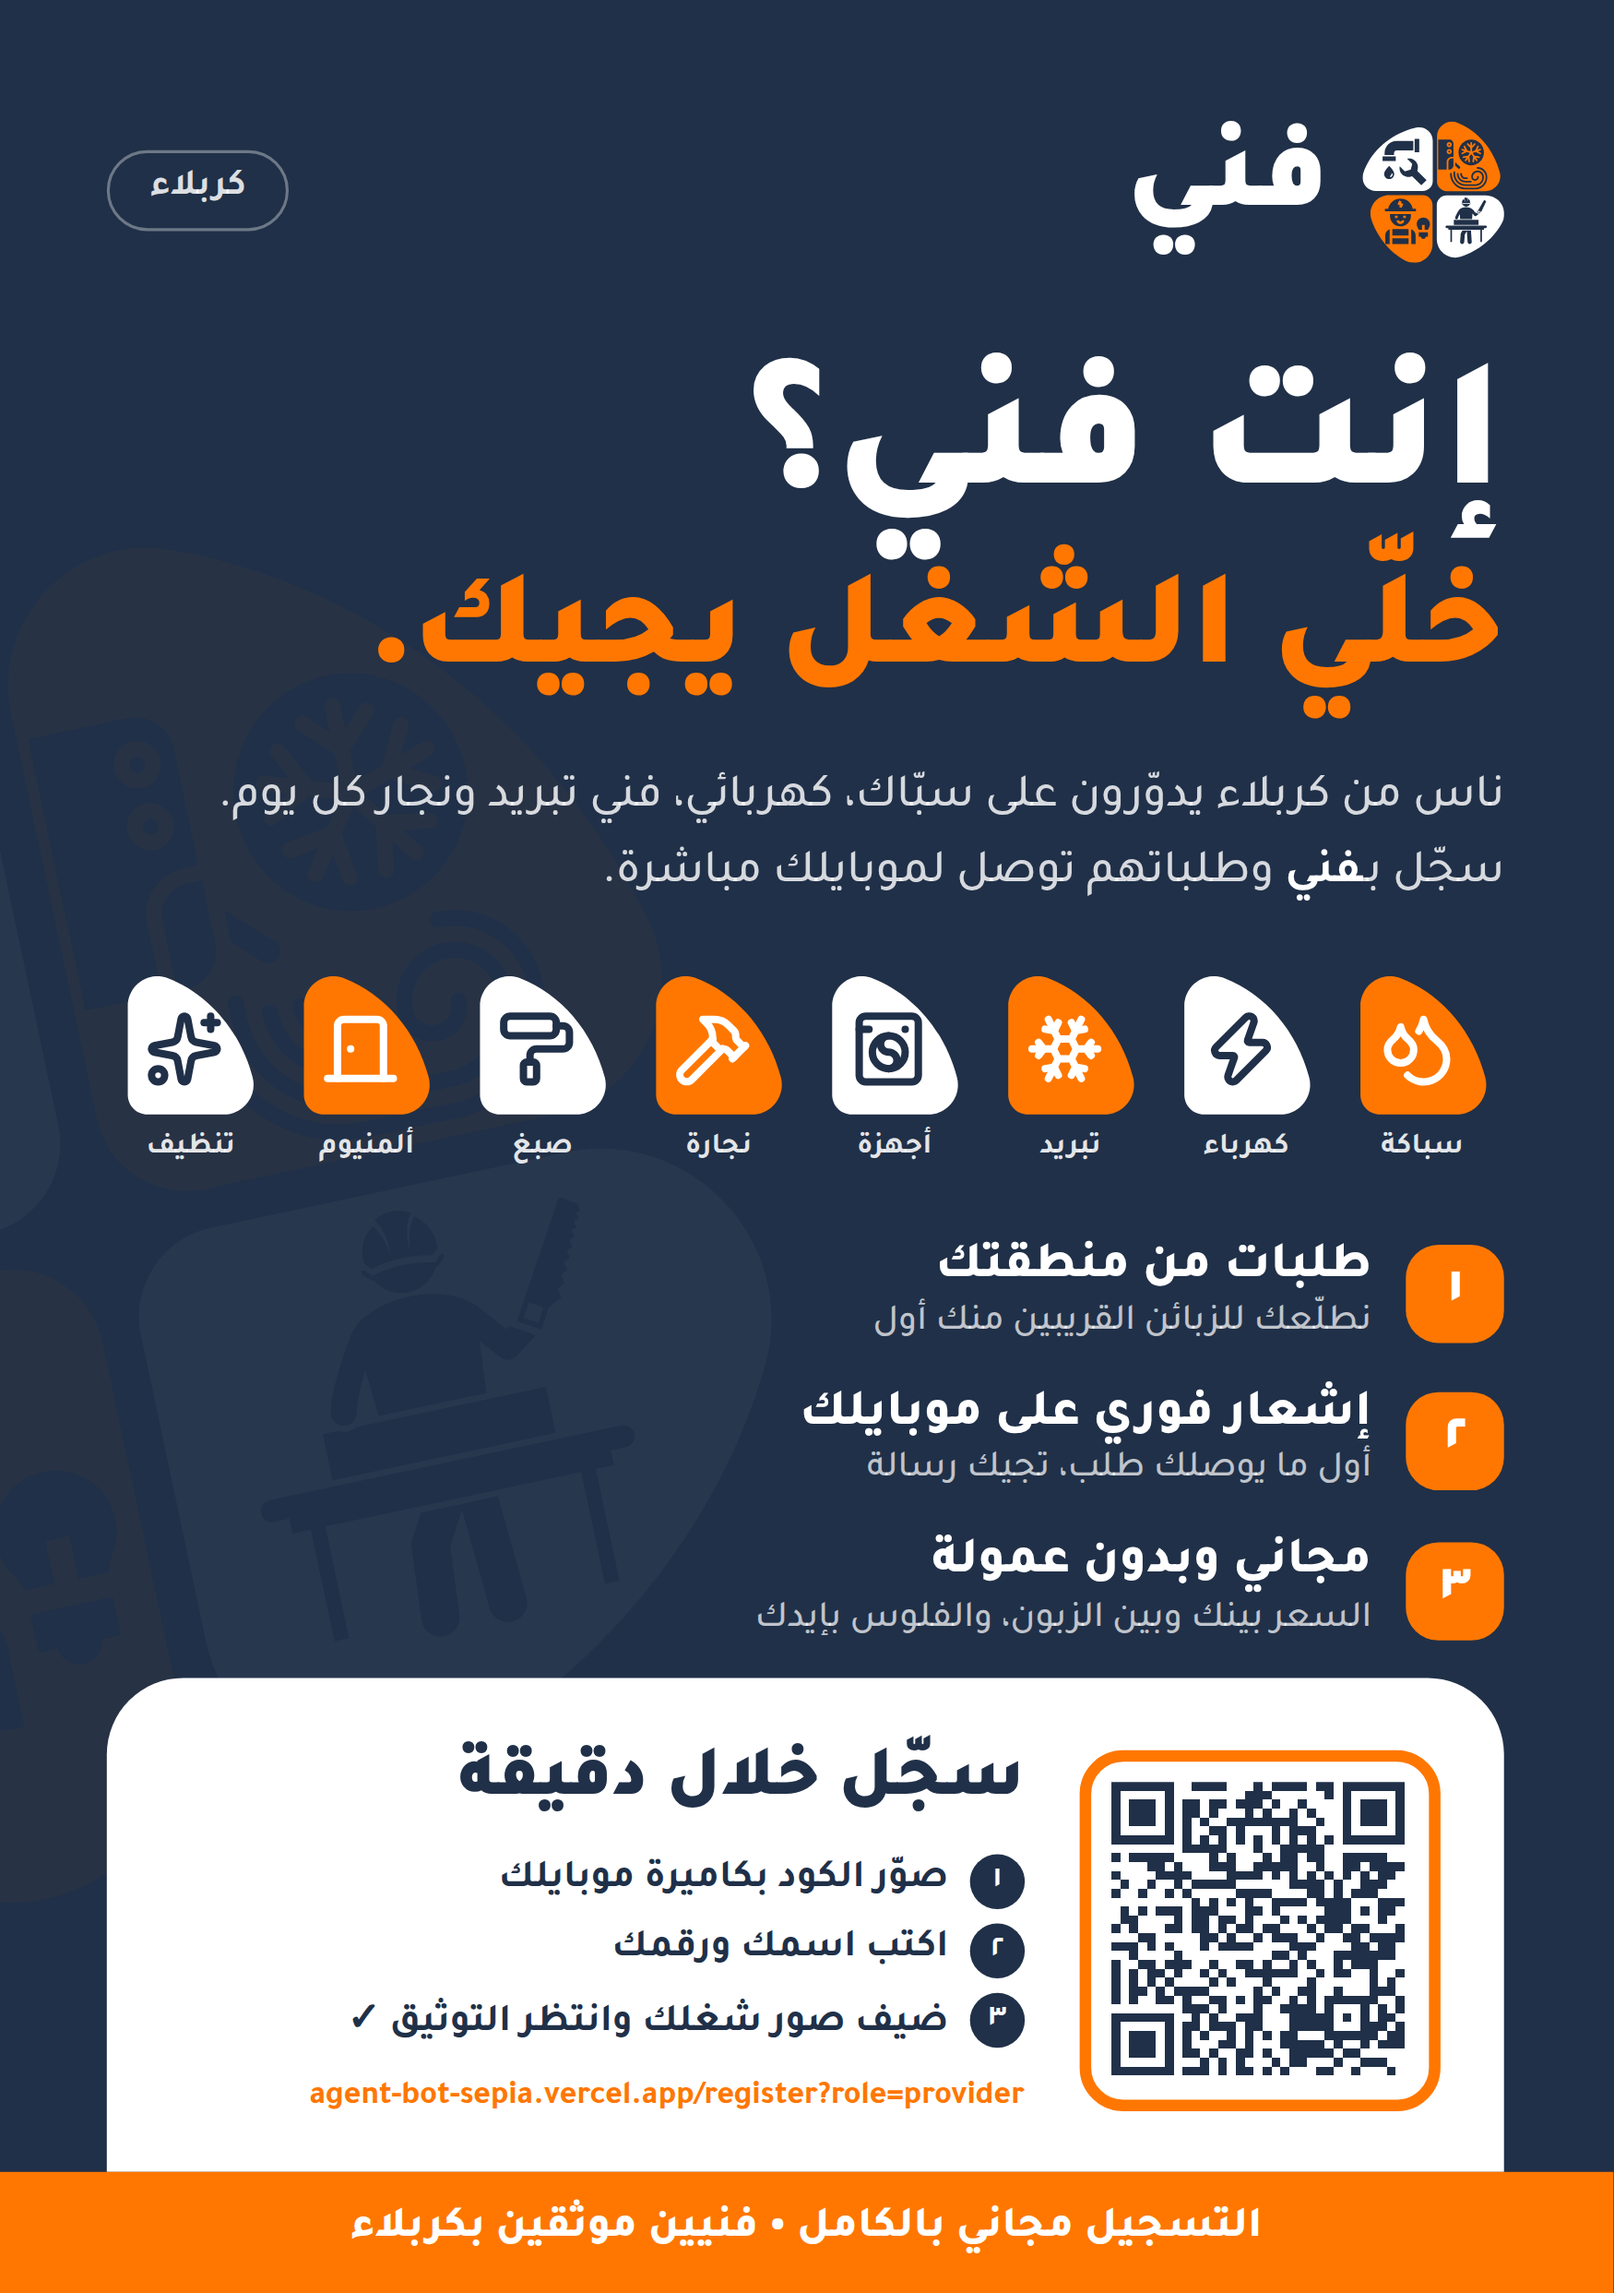
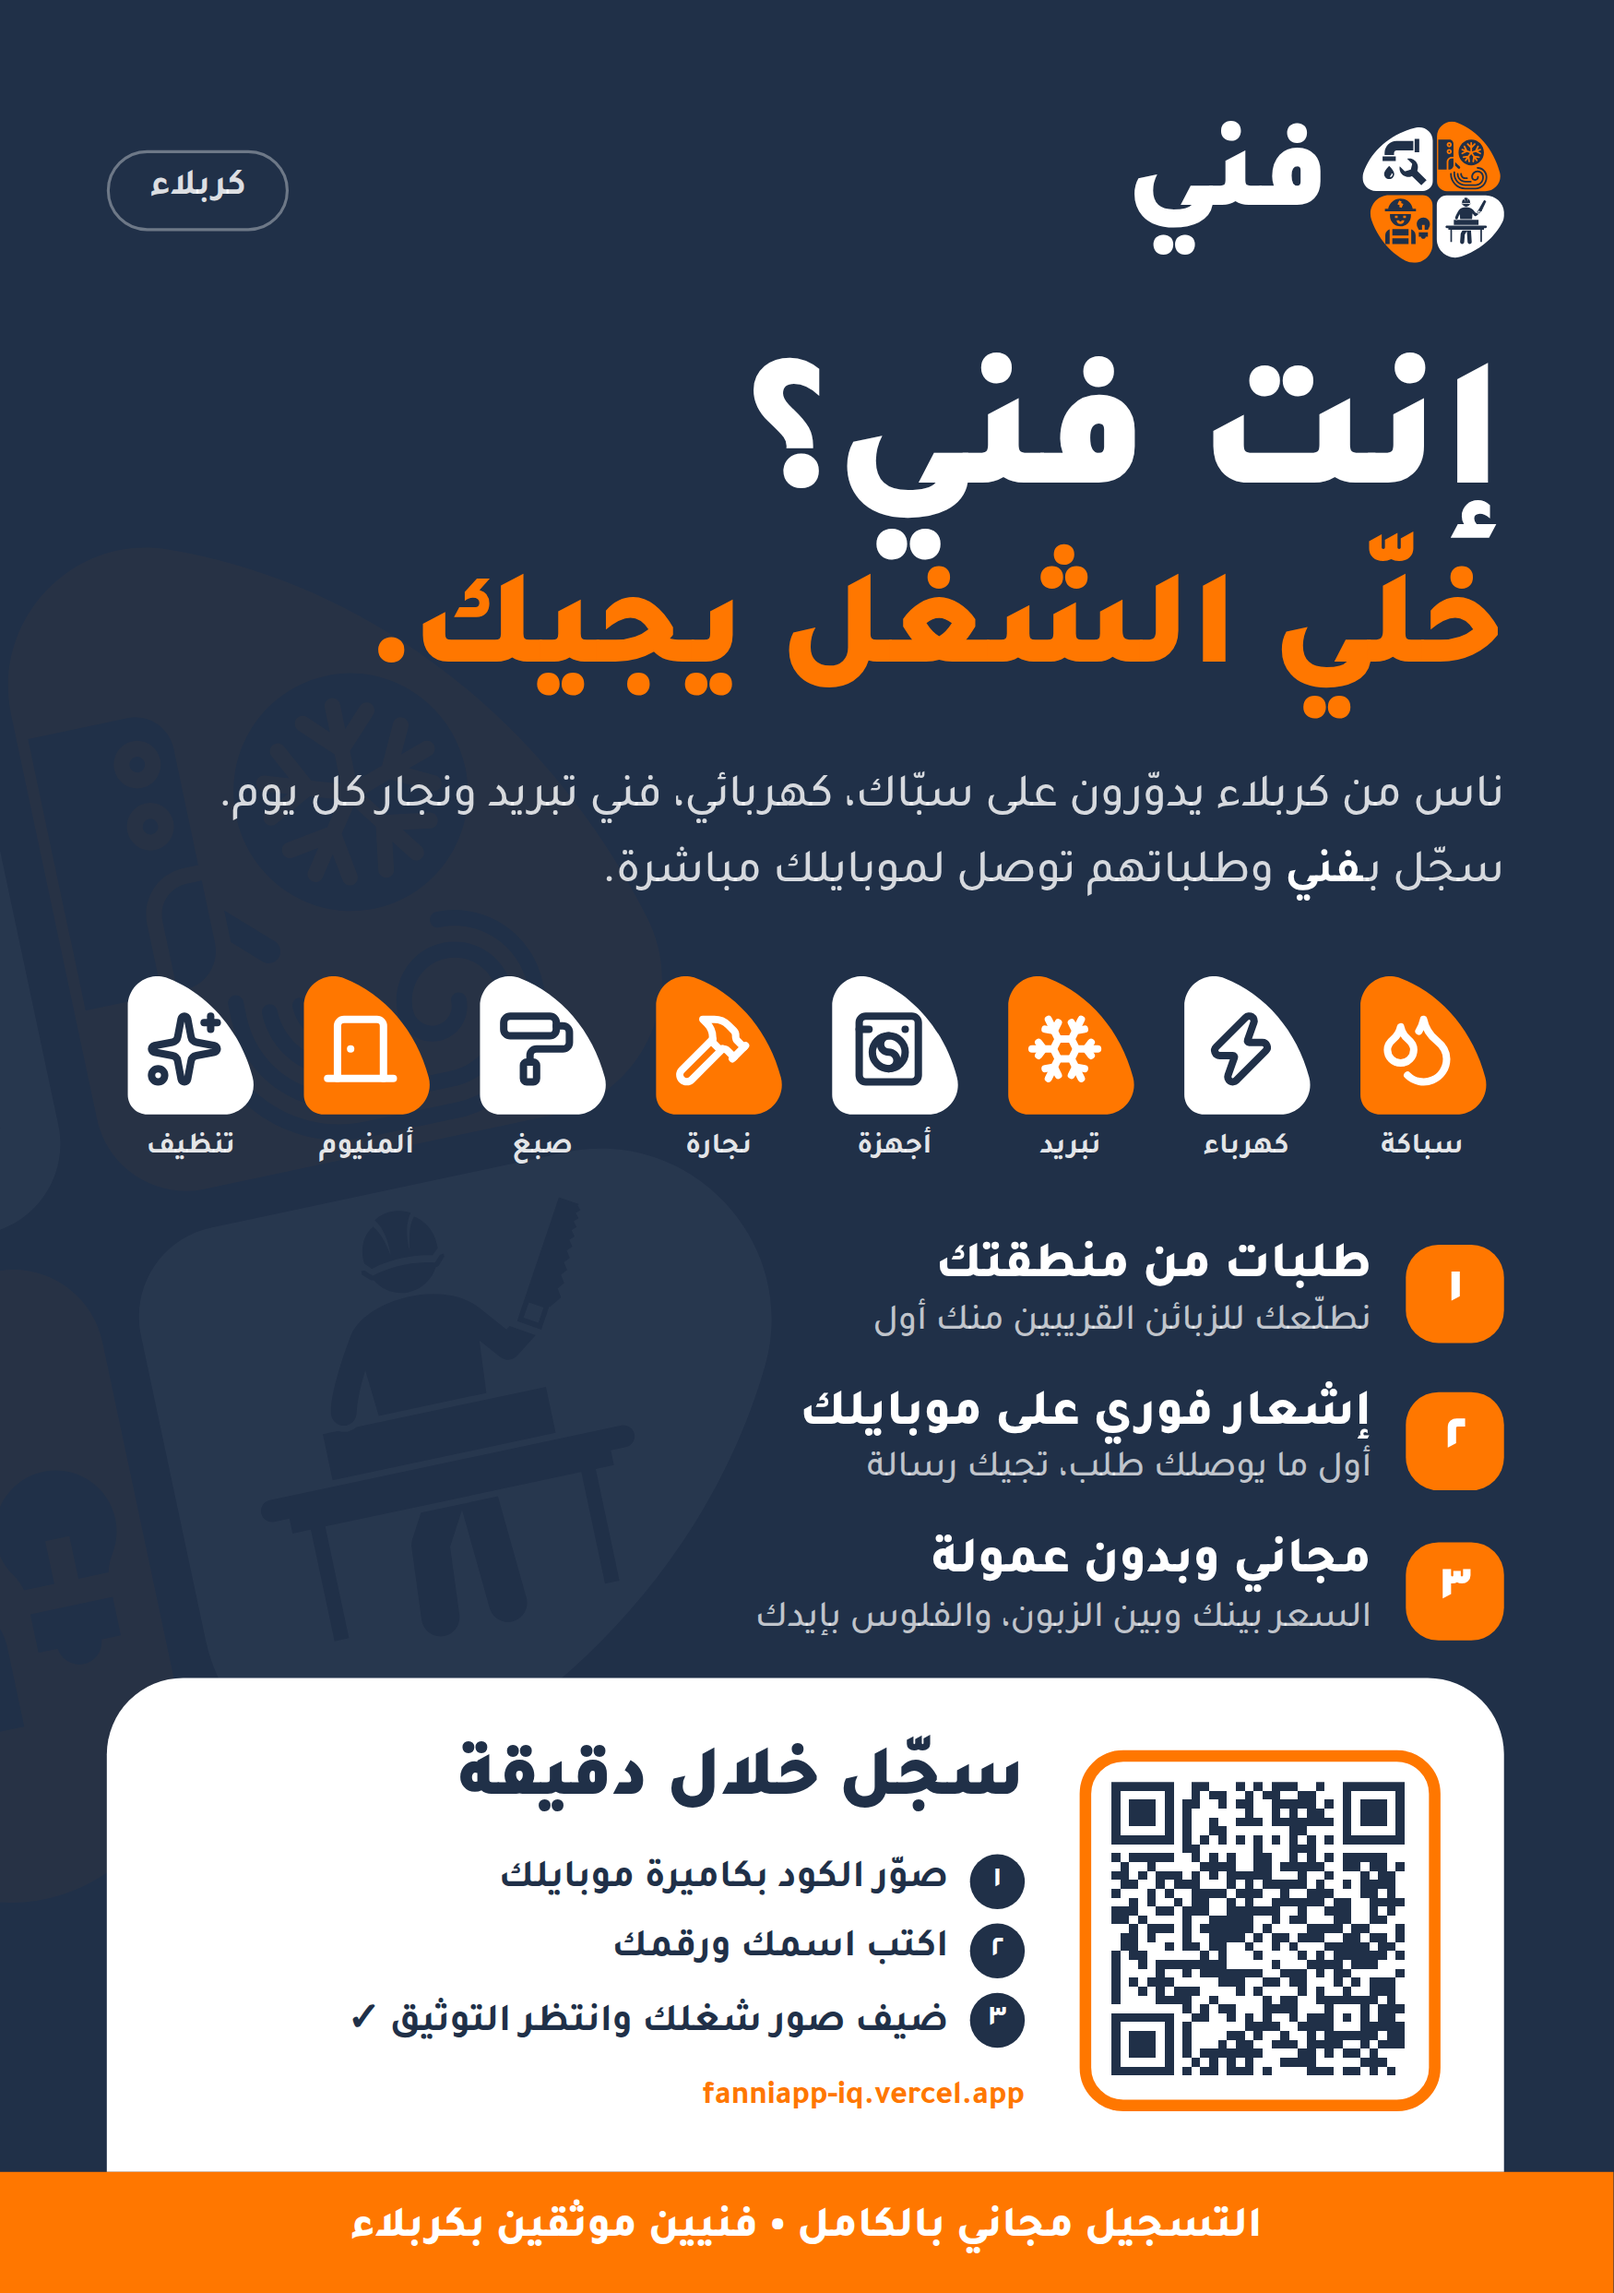
Flyer: new link fanniapp-iq.vercel.app
Claude-Session: https://claude.ai/code/session_01V793Y4PBUDgmAosguD4uuL

Changed region(s): [[0.6789, 0.7746, 0.864, 0.9296], [0.1851, 0.8986, 0.648, 0.9296]]

diff --git a/fanni/marketing/flyer/README.md b/fanni/marketing/flyer/README.md
@@ -7,7 +7,7 @@
 ```bash
 cd fanni/marketing/flyer
 npm i @fontsource/tajawal qrcode playwright
-SIGNUP_URL="https://fanni-karbala.vercel.app/register?role=provider" \
-SHOW_URL="fanni-karbala.vercel.app" node build.mjs
+SIGNUP_URL="https://fanniapp-iq.vercel.app/register?role=provider" \
+SHOW_URL="fanniapp-iq.vercel.app" node build.mjs
 ```
 (build.mjs يقرأ الشعار من `fanni/src/assets/fanni-mark.svg` والأيقونات من `fanni/node_modules/lucide-react`.)
